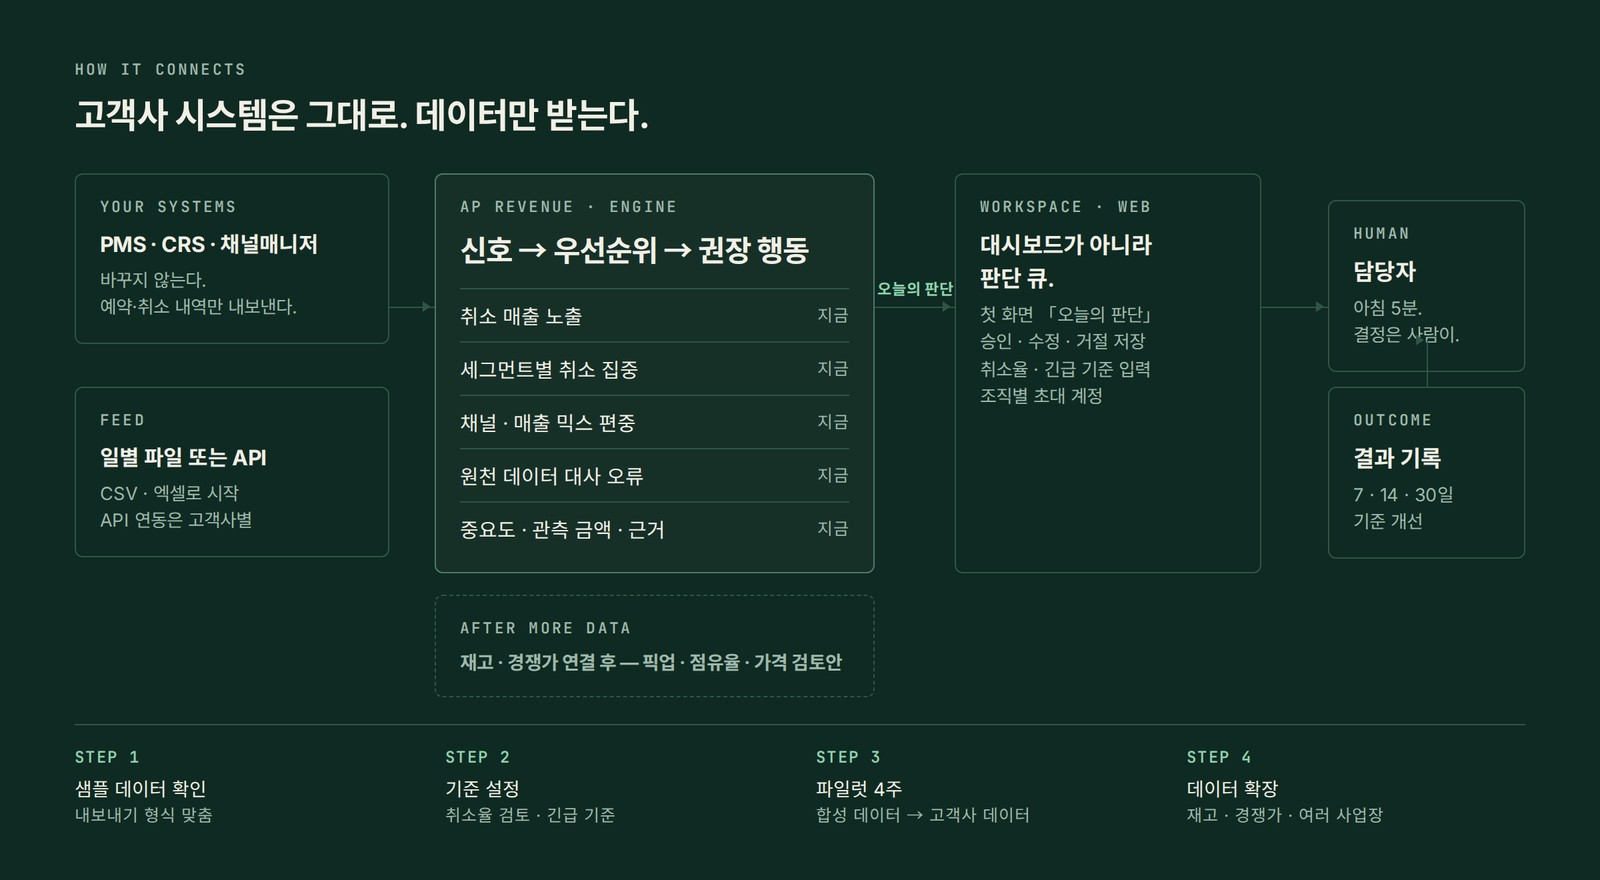
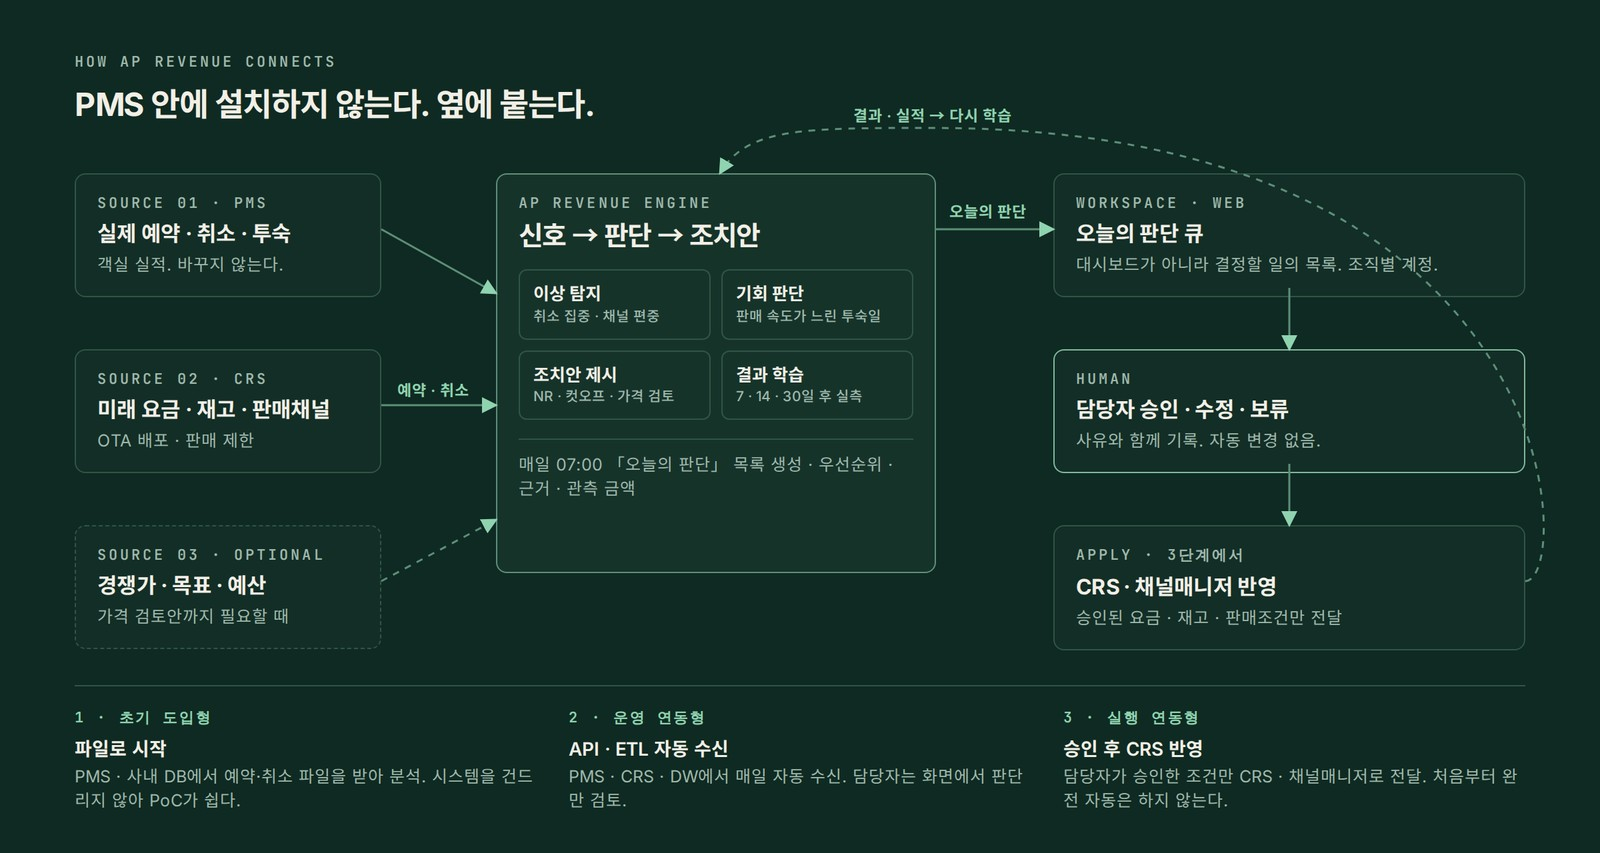
revenue: detailed integration diagram + roles/questions; travel: plain-language copy
Claude-Session: https://claude.ai/code/session_01WsGPQczCo9oamQacoYURTj

diff --git a/ko/products/travel/index.html b/ko/products/travel/index.html
@@ -1,7 +1,9 @@
-<!doctype html><html lang="ko"><head><meta charset="utf-8"><meta name="viewport" content="width=device-width,initial-scale=1"><title>AP Travel — AP Holdings</title><meta name="description" content="항공 · 관광 · 수요 · 환율 · 공급 · 캘린더 신호를 모아 Origin × Destination × Segment × Window 기회를 짚는다."><meta name="robots" content="index,follow"><link rel="canonical" href="https://www.apholdings.kr/ko/products/travel/"><link rel="alternate" hreflang="ko" href="https://www.apholdings.kr/ko/products/travel/"><link rel="alternate" hreflang="en" href="https://www.apholdings.kr/en/products/travel/"><link rel="alternate" hreflang="x-default" href="https://www.apholdings.kr/en/products/travel/"><meta property="og:type" content="website"><meta property="og:site_name" content="AP Holdings"><meta property="og:title" content="AP Travel — AP Holdings"><meta property="og:description" content="항공 · 관광 · 수요 · 환율 · 공급 · 캘린더 신호를 모아 Origin × Destination × Segment × Window 기회를 짚는다."><meta property="og:url" content="https://www.apholdings.kr/ko/products/travel/"><meta property="og:locale" content="ko_KR"><meta name="theme-color" content="#ffffff"><link rel="icon" href="/img/ap_mark.png"><link rel="preconnect" href="https://fonts.googleapis.com"><link rel="preconnect" href="https://fonts.gstatic.com" crossorigin><link href="https://fonts.googleapis.com/css2?family=Noto+Sans+KR:wght@400;500;600;700&amp;display=swap" rel="stylesheet"><link rel="stylesheet" href="/assets/v2/site.css?v=2.6"><script defer src="/assets/v2/site.js?v=2.4"></script><script type="application/ld+json">{"@context": "https://schema.org", "@type": "Organization", "name": "AP Holdings", "url": "https://www.apholdings.kr", "logo": "https://www.apholdings.kr/img/ap_mark.png", "description": "항공 · 관광 · 수요 · 환율 · 공급 · 캘린더 신호를 모아 Origin × Destination × Segment × Window 기회를 짚는다.", "email": "cksals00@gmail.com", "sameAs": ["https://www.instagram.com/lia_park55/", "https://www.tiktok.com/@lia_park55"]}</script></head><body id="top"><a class="skip" href="#main">본문으로 이동</a><header class="site-header"><div class="wrap header-inner"><a class="brand" href="/ko/" aria-label="AP Holdings home"><span class="brand-mark"><img src="/img/ap_mark.png" alt="" width="29" height="14"></span>AP HOLDINGS</a><nav class="desktop-nav" aria-label="Main"><a href="/ko/#businesses">사업</a><a href="/ko/#portfolio">제품</a><a href="/ko/about/">회사</a><a href="/ko/ir/" class="ir-link">IR / INVESTORS</a><a href="/ko/#contact">문의</a></nav><details class="language"><summary aria-label="언어">KO</summary><ul><li><a href="/ko/products/travel/" lang="ko" aria-current="page">한국어</a></li><li><a href="/en/products/travel/" lang="en">English</a></li><li><a href="/vi/" lang="vi">Tiếng Việt<small>In preparation</small></a></li><li><a href="/ja/" lang="ja">日本語<small>In preparation</small></a></li><li><a href="/zh-cn/" lang="zh-cn">简体中文<small>In preparation</small></a></li><li><a href="/fr/" lang="fr">Français<small>In preparation</small></a></li></ul></details><details class="mobile-menu"><summary>메뉴</summary><nav aria-label="Mobile"><a href="/ko/#businesses">사업</a><a href="/ko/#portfolio">제품</a><a href="/ko/about/">회사</a><a href="/ko/ir/" class="ir-link">IR / INVESTORS</a><a href="/ko/#contact">문의</a></nav></details></div></header><main id="main"><section class="page-hero"><div class="wrap"><div class="breadcrumb"><a class="" href="/ko/#portfolio">제품</a> / AP Travel</div><span class="status">개발 중</span><h1 class="product-name">AP Travel</h1><h2>어느 시장에, 언제, 누구에게.</h2><p class="lead">항공 · 관광 · 수요 · 환율 · 공급 · 캘린더 신호를 모아 Origin × Destination × Segment × Window 기회를 짚는다.</p></div></section><section class="section anchor" id="scene"><div class="wrap"><div class="section-intro"><div><span class="number">01 · 한 장면</span><h2>신호가 모이면,
-기회가 보인다.</h2></div><div class="intro-side"><p>시장별 신호가 맞물리는 칸만
-근거와 함께 올린다.
-캠페인의 예산 · 채널 · 메시지는 담당자의 몫.
-결과는 다음 판단의 기준이 된다.</p></div></div><figure style="margin:0 0 45px"><div class="product-media" style="background:transparent;padding:0"><img src="/media/gfx/travel_scene.jpg" alt="시장 신호 → 기회(일본→서울 · 30대 커플 · 11월 첫째 주) → 담당자 결정 → 결과" width="1600" height="900" loading="lazy" style="width:100%;max-height:none;border-radius:24px"></div></figure></div></section><section class="section soft anchor" id="today"><div class="wrap"><div class="cta-block"><span class="number">02 · 지금</span><h2>설계 단계.
+<!doctype html><html lang="ko"><head><meta charset="utf-8"><meta name="viewport" content="width=device-width,initial-scale=1"><title>AP Travel — AP Holdings</title><meta name="description" content="항공 좌석 · 환율 · 검색량 · 연휴 신호를 모아
+「어느 나라 → 어느 도시 · 어떤 손님 · 어느 주」에 기회가 있는지 짚는다."><meta name="robots" content="index,follow"><link rel="canonical" href="https://www.apholdings.kr/ko/products/travel/"><link rel="alternate" hreflang="ko" href="https://www.apholdings.kr/ko/products/travel/"><link rel="alternate" hreflang="en" href="https://www.apholdings.kr/en/products/travel/"><link rel="alternate" hreflang="x-default" href="https://www.apholdings.kr/en/products/travel/"><meta property="og:type" content="website"><meta property="og:site_name" content="AP Holdings"><meta property="og:title" content="AP Travel — AP Holdings"><meta property="og:description" content="항공 좌석 · 환율 · 검색량 · 연휴 신호를 모아
+「어느 나라 → 어느 도시 · 어떤 손님 · 어느 주」에 기회가 있는지 짚는다."><meta property="og:url" content="https://www.apholdings.kr/ko/products/travel/"><meta property="og:locale" content="ko_KR"><meta name="theme-color" content="#ffffff"><link rel="icon" href="/img/ap_mark.png"><link rel="preconnect" href="https://fonts.googleapis.com"><link rel="preconnect" href="https://fonts.gstatic.com" crossorigin><link href="https://fonts.googleapis.com/css2?family=Noto+Sans+KR:wght@400;500;600;700&amp;display=swap" rel="stylesheet"><link rel="stylesheet" href="/assets/v2/site.css?v=2.6"><script defer src="/assets/v2/site.js?v=2.4"></script><script type="application/ld+json">{"@context": "https://schema.org", "@type": "Organization", "name": "AP Holdings", "url": "https://www.apholdings.kr", "logo": "https://www.apholdings.kr/img/ap_mark.png", "description": "항공 좌석 · 환율 · 검색량 · 연휴 신호를 모아\n「어느 나라 → 어느 도시 · 어떤 손님 · 어느 주」에 기회가 있는지 짚는다.", "email": "cksals00@gmail.com", "sameAs": ["https://www.instagram.com/lia_park55/", "https://www.tiktok.com/@lia_park55"]}</script></head><body id="top"><a class="skip" href="#main">본문으로 이동</a><header class="site-header"><div class="wrap header-inner"><a class="brand" href="/ko/" aria-label="AP Holdings home"><span class="brand-mark"><img src="/img/ap_mark.png" alt="" width="29" height="14"></span>AP HOLDINGS</a><nav class="desktop-nav" aria-label="Main"><a href="/ko/#businesses">사업</a><a href="/ko/#portfolio">제품</a><a href="/ko/about/">회사</a><a href="/ko/ir/" class="ir-link">IR / INVESTORS</a><a href="/ko/#contact">문의</a></nav><details class="language"><summary aria-label="언어">KO</summary><ul><li><a href="/ko/products/travel/" lang="ko" aria-current="page">한국어</a></li><li><a href="/en/products/travel/" lang="en">English</a></li><li><a href="/vi/" lang="vi">Tiếng Việt<small>In preparation</small></a></li><li><a href="/ja/" lang="ja">日本語<small>In preparation</small></a></li><li><a href="/zh-cn/" lang="zh-cn">简体中文<small>In preparation</small></a></li><li><a href="/fr/" lang="fr">Français<small>In preparation</small></a></li></ul></details><details class="mobile-menu"><summary>메뉴</summary><nav aria-label="Mobile"><a href="/ko/#businesses">사업</a><a href="/ko/#portfolio">제품</a><a href="/ko/about/">회사</a><a href="/ko/ir/" class="ir-link">IR / INVESTORS</a><a href="/ko/#contact">문의</a></nav></details></div></header><main id="main"><section class="page-hero"><div class="wrap"><div class="breadcrumb"><a class="" href="/ko/#portfolio">제품</a> / AP Travel</div><span class="status">개발 중</span><h1 class="product-name">AP Travel</h1><h2>어느 나라에서, 언제, 누가 올까.</h2><p class="lead">항공 좌석 · 환율 · 검색량 · 연휴 신호를 모아
+「어느 나라 → 어느 도시 · 어떤 손님 · 어느 주」에 기회가 있는지 짚는다.</p></div></section><section class="section anchor" id="scene"><div class="wrap"><div class="section-intro"><div><span class="number">01 · 한 장면</span><h2>신호가 모이면,
+기회가 보인다.</h2></div><div class="intro-side"><p>환율 · 항공 공급 · 검색량이 같은 방향으로 움직이는 시장만
+근거와 함께 올린다. 예: 일본 → 서울 · 30대 커플 · 11월 첫째 주.
+캠페인의 예산 · 채널 · 메시지는 담당자의 몫.</p></div></div><figure style="margin:0 0 45px"><div class="product-media" style="background:transparent;padding:0"><img src="/media/gfx/travel_scene.jpg" alt="시장 신호 → 기회(일본→서울 · 30대 커플 · 11월 첫째 주) → 담당자 결정 → 결과" width="1600" height="900" loading="lazy" style="width:100%;max-height:none;border-radius:24px"></div></figure></div></section><section class="section soft anchor" id="today"><div class="wrap"><div class="cta-block"><span class="number">02 · 지금</span><h2>설계 단계.
 시장별로 검증한다.</h2><p>특정 국가 인바운드에 묶이지 않는 설계.
 AP Revenue와 같은 엔진 구조 — 신호 · 우선순위 · 사람의 결정 · 결과 기록.</p><div class="actions"><a class="button primary" href="/ko/products/revenue/">같은 구조로 작동 중인 AP Revenue</a></div></div></div></section></main><footer class="site-footer"><div class="wrap"><div class="footer-contact" id="contact"><div><span class="eyebrow">CONTACT</span><h3>Build with AP.</h3><p>제품·기술 · 전문가 자문 · 브랜드·커머스 · 글로벌 유통 · 교육·콘텐츠 · 공예·작가 · 파일럿 협력</p></div><div><a class="contact-email" href="mailto:cksals00@gmail.com">cksals00@gmail.com</a><a class="button primary" href="mailto:cksals00@gmail.com?subject=%5BAP%20Holdings%5D%20Partnership%20enquiry">협력 문의</a></div></div><div class="footer-top"><a class="brand" href="/ko/" aria-label="AP Holdings home"><span class="brand-mark"><img src="/img/ap_mark.png" alt="" width="29" height="14"></span>AP HOLDINGS</a><div class="footer-map"><div><b>AP Holdings</b><a class="" href="/ko/about/">회사 소개</a><a class="" href="/ko/ir/">IR / INVESTORS</a><a class="" href="/ko/lab/">Founder’s Lab</a></div><div><b>Decision Intelligence</b><a class="" href="/ko/products/safe/">AP Safe</a><a class="" href="/ko/products/light/">AP Light</a><a class="" href="/ko/products/revenue/">AP Revenue</a><a class="" href="/ko/products/travel/">AP Travel</a></div><div><b>Commerce</b><a class="" href="/ko/products/select/">AP SELECT</a><a class="" href="/ko/products/commerce/">Global K-Commerce</a><a class="" href="/ko/products/craft/">AP K-Craft</a><a class="" href="/ko/products/lia/">LIA</a></div><div><b>Play &amp; Learn</b><a class="" href="/ko/products/rgrg/">RGRG</a><a class="" href="/ko/products/cubs/">Hangeul Cubs</a><a class="" href="/ko/products/lastwave/">LAST WAVE</a></div><div><b>커넥터</b><a class="" href="/business/safelist-connect.html">세이프리스트 · 클로드</a><a class="" href="/business/lightlist-connect.html">라이트리스트 · 클로드</a></div></div></div><ul class="footer-policies" aria-label="개인정보 처리방침"><li class="pol-label">앱 개인정보 처리방침</li><li><a class="" href="/safelist/privacy.html">Safelist</a></li><li><a class="" href="/hangeulcubs_privacy.html">Hangeul Cubs</a></li><li><a class="" href="/rgrg/privacy.html">RGRG</a></li><li><a class="" href="/irongrade/privacy.html">IRON GRADE</a></li><li><a class="" href="/theotherhours_privacy.html">The Other Hours</a></li><li><a class="" href="/kfan_privacy.html">K-Concert Trip</a></li><li><a class="" href="/privacy.html">나의 첫투자</a></li><li><a class="" href="/kscan/privacy.html">K-Scan</a></li><li><a class="" href="/goyo/privacy.html">Goyo</a></li></ul><div class="footer-bottom"><span>© 2026 AP Holdings. All rights reserved.</span><span>Built in Korea. Designed for the world.</span><a class="" href="#top">맨 위로</a></div></div></footer></body></html>

diff --git a/ko/products/revenue/index.html b/ko/products/revenue/index.html
@@ -2,11 +2,10 @@
 결정 목록이 된다.</h2></div><div class="intro-side"><p>예약·취소 데이터를 연결하면
 매일 아침 「오늘의 판단」 목록이 생성된다.
 우선순위 · 근거 · 관측 금액 · 권장 행동을 한 줄로.
-최종 판단은 담당자가 기록한다.</p></div></div><figure style="margin:0 0 45px"><div class="product-media" style="background:transparent;padding:0"><img src="/media/gfx/revenue_goodmorning.jpg" alt="감지 → 알림 → 담당자 결정 → 7·14·30일 뒤 검증" width="1600" height="900" loading="lazy" style="width:100%;max-height:none;border-radius:24px"></div></figure></div></section><section class="section soft anchor" id="apply"><div class="wrap"><div class="section-intro"><div><span class="number">02 · 어떻게 붙나</span><h2>시스템은 그대로.
-데이터만 받는다.</h2></div><div class="intro-side"><p>PMS · CRS · 채널매니저는 바꾸지 않는다.
-일별 예약·취소 내역을 파일이나 API로 받는다.
-제공 형태는 웹 워크스페이스 —
-대시보드가 아니라 오늘 결정할 일의 목록.</p><p class="note">지금: 취소 노출 · 세그먼트 집중 · 채널 편중 · 원천 오류 · 우선순위와 관측 금액.  재고·경쟁가 연결 후: 픽업 · 점유율 · 가격 검토안.  노출 금액은 예상 ROI가 아니라 실제 관측값.</p></div></div><figure style="margin:0 0 45px"><div class="product-media" style="background:transparent;padding:0"><img src="/media/gfx/revenue_apply.jpg" alt="PMS·CRS → 일별 파일 또는 API → AP Revenue 엔진 → 웹 워크스페이스 → 담당자 → 결과 기록" width="1600" height="900" loading="lazy" style="width:100%;max-height:none;border-radius:24px"></div></figure></div></section><section class="section anchor" id="value"><div class="wrap"><div class="section-intro"><div><span class="number">03 · 고객사가 얻는 것</span><h2>엑셀 비교 대신,
+최종 판단은 담당자가 기록한다.</p></div></div><figure style="margin:0 0 45px"><div class="product-media" style="background:transparent;padding:0"><img src="/media/gfx/revenue_goodmorning.jpg" alt="감지 → 알림 → 담당자 결정 → 7·14·30일 뒤 검증" width="1600" height="900" loading="lazy" style="width:100%;max-height:none;border-radius:24px"></div></figure></div></section><section class="section soft anchor" id="apply"><div class="wrap"><div class="section-intro"><div><span class="number">02 · 어떻게 붙나</span><h2>PMS 안에 설치하지 않는다.
+옆에 붙는다.</h2></div><div class="intro-side"><p>PMS는 실적, CRS·채널매니저는 미래 요금과 재고.
+AP Revenue는 그 옆에서 이상 탐지 · 기회 판단 · 조치안 · 결과 학습.
+담당자가 승인한 조건만 CRS로 돌아간다.</p><p class="note">상품 형태: 호텔의 PMS · CRS 데이터를 연결해 매일 매출 기회와 손실 위험을 제시하는 B2B Revenue Decision SaaS.  PMS만 연결하면 예약·취소 분석까지, 가격·재고 판단은 CRS · 채널매니저 · 판매 가능 재고 연결 후.</p></div></div><figure style="margin:0 0 45px"><div class="product-media" style="background:transparent;padding:0"><img src="/media/gfx/revenue_apply.jpg" alt="PMS·CRS·경쟁가 → AP Revenue 엔진 → 오늘의 판단 큐 → 담당자 승인 → CRS·채널매니저 반영 → 결과 학습" width="1600" height="900" loading="lazy" style="width:100%;max-height:none;border-radius:24px"></div></figure><div class="grid-2"><div class="proof"><h3>각 시스템의 역할</h3><ol><li>PMS — 실제 예약 · 취소 · 투숙 · 객실 실적</li><li>CRS · 채널매니저 — 미래 요금 · 재고 · 판매 제한 · OTA 배포</li><li>AP Revenue — 이상 탐지 · 기회 판단 · 조치안 · 결과 학습</li><li>담당자 — 추천 수락 · 수정 · 보류</li><li>BI — 과거 실적 보고와 시각화 (대체하지 않음)</li></ol></div><div class="proof"><h3>AP Revenue가 답하는 질문</h3><ol><li>취소가 어느 채널 · 상품에 집중됐는가</li><li>어떤 투숙일의 판매 속도가 목표보다 느린가</li><li>어디에서 가격이나 재고 정책을 검토해야 하는가</li><li>NR · Semi-NR · 컷오프 · 리리스 중 무엇을 적용할 것인가</li><li>실행 후 실제 매출 · 취소율이 개선됐는가</li></ol></div></div></div></section><section class="section anchor" id="value"><div class="wrap"><div class="section-intro"><div><span class="number">03 · 고객사가 얻는 것</span><h2>엑셀 비교 대신,
 근거가 남는 결정.</h2></div><div class="intro-side"><p>여러 사업장에 같은 운영 기준.
 놓치기 쉬운 취소·채널 이상을 조기에.
 「왜 이런 결정을 했는가」가 남고,
